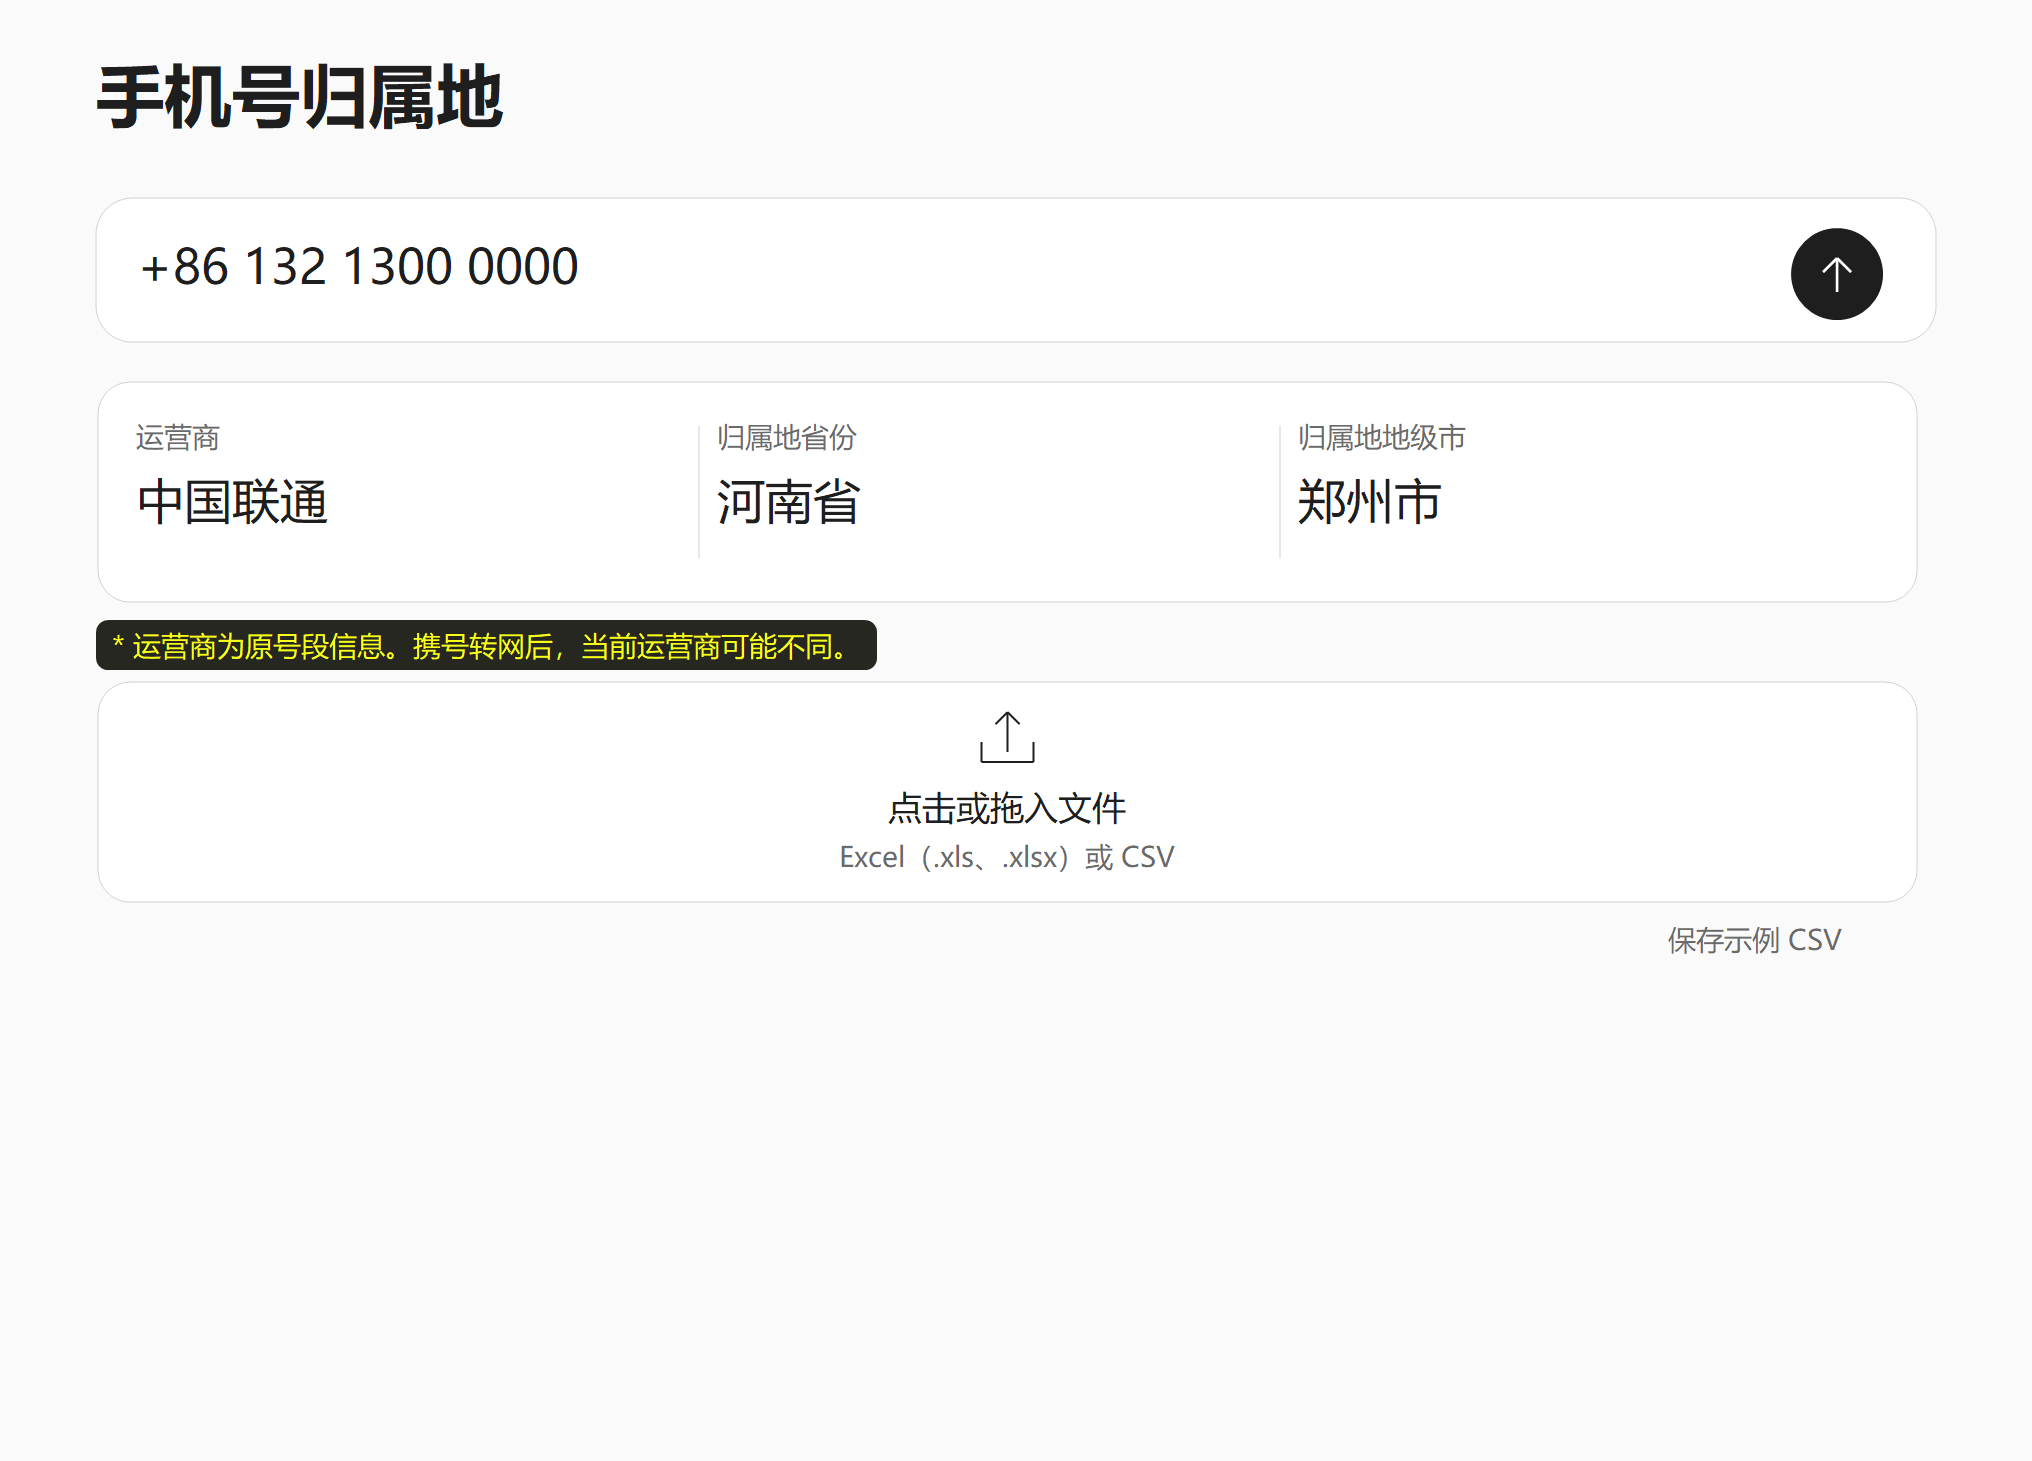
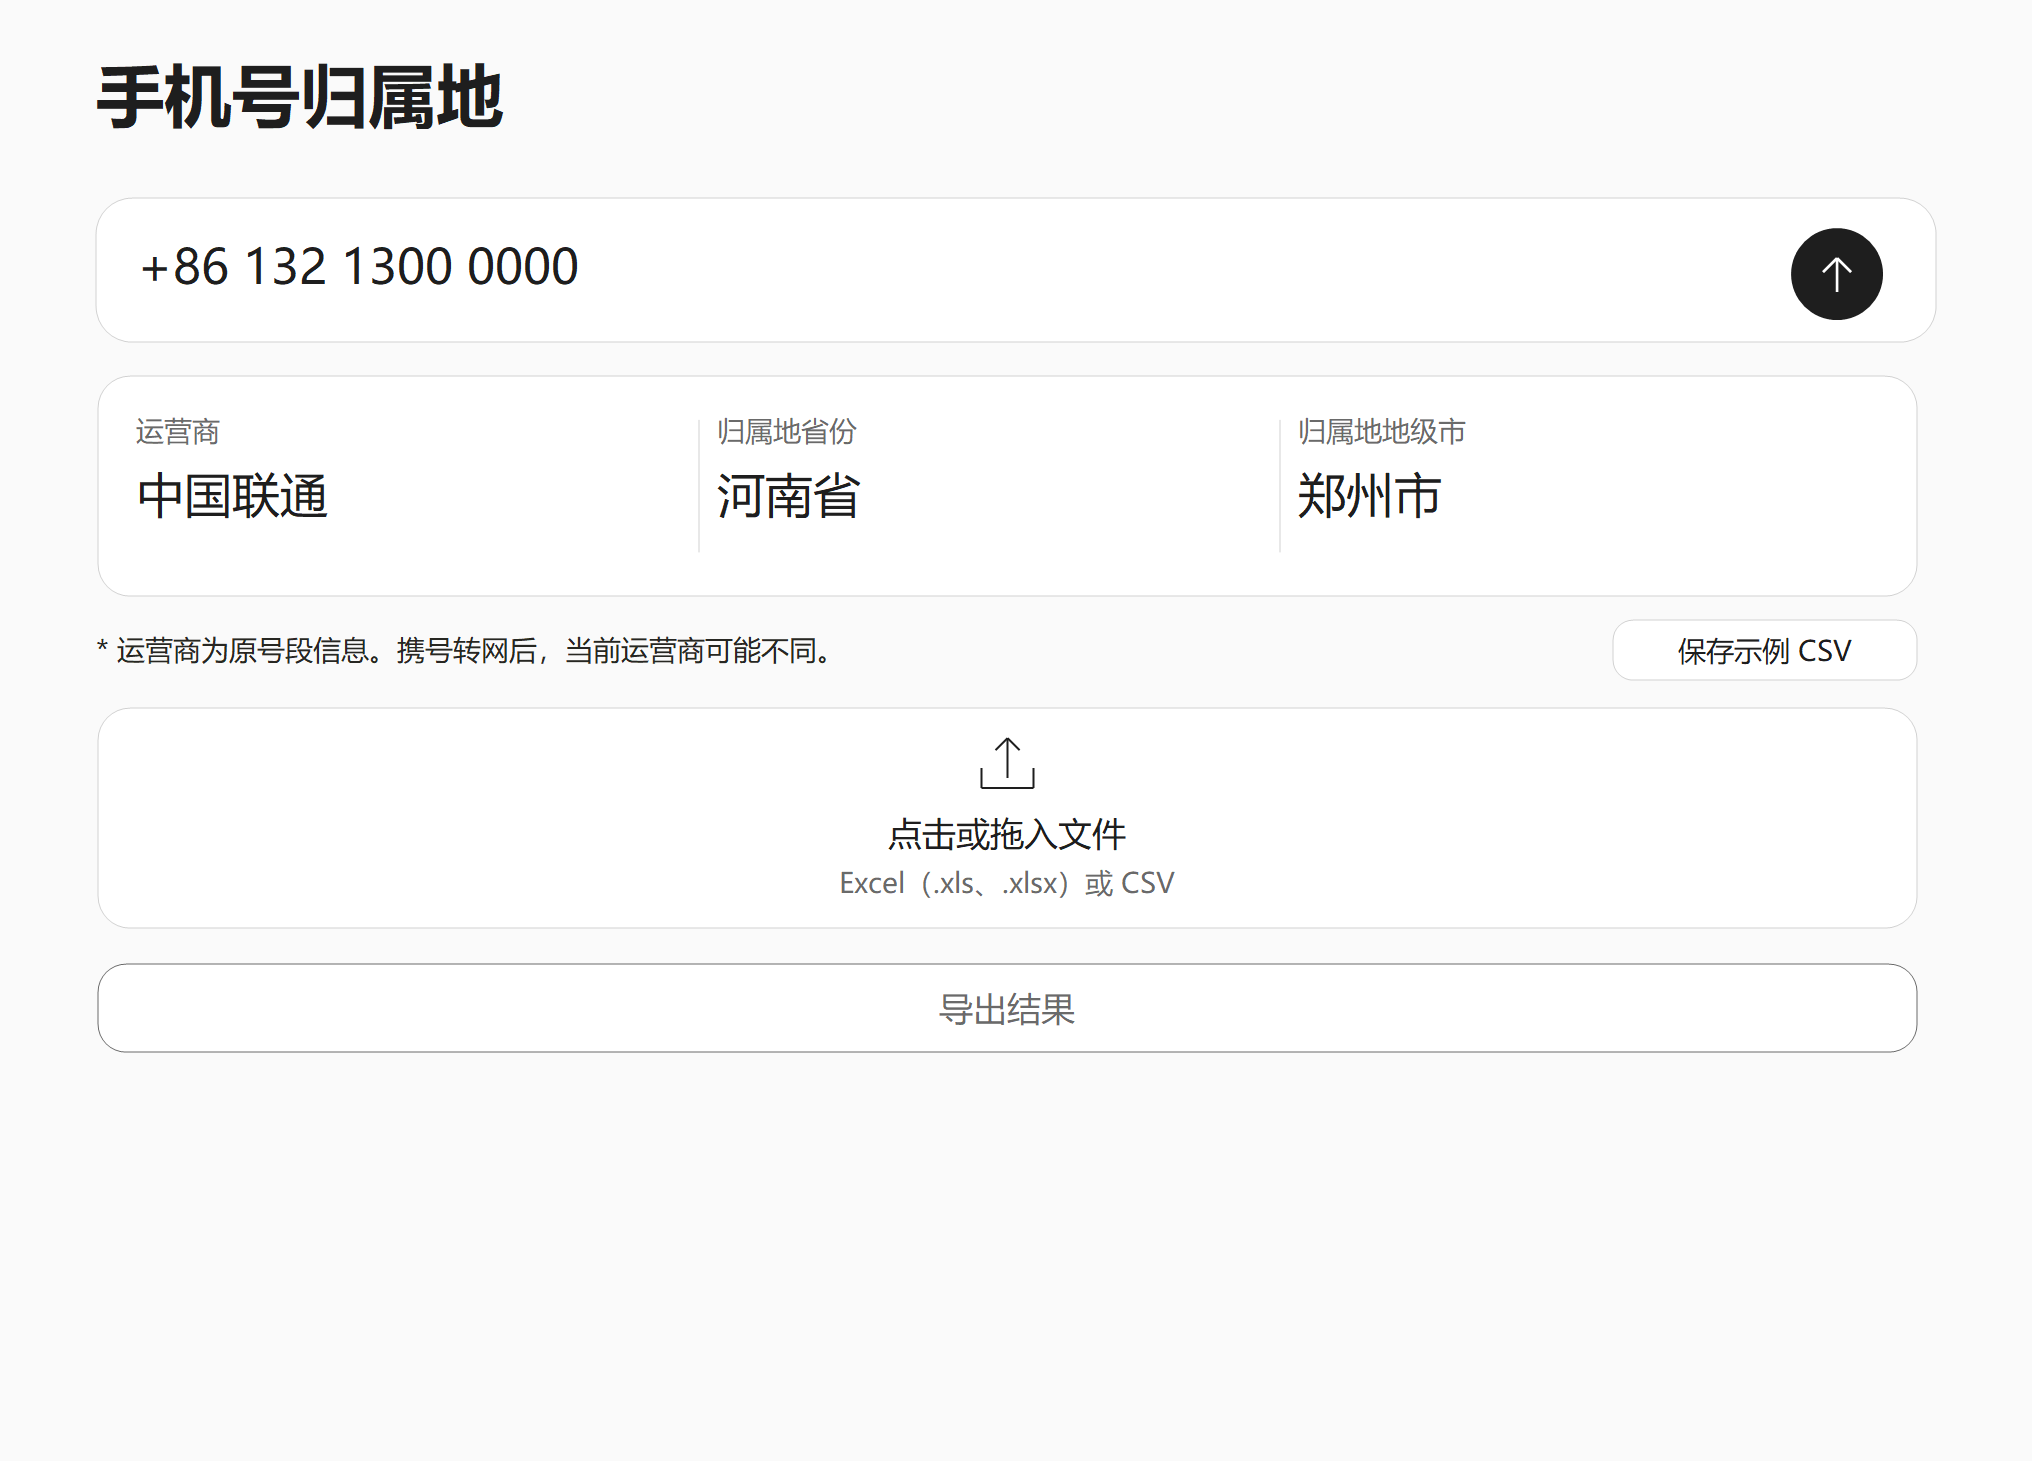
Refresh both guides and the Windows demo for the fixed export button

diff --git a/README.en.md b/README.en.md
@@ -36,11 +36,11 @@
 
 <h2 align="center">Look up an entire file</h2>
 
-<p align="center"><a href="https://github.com/TaylorChyi/PhoneRegion/releases/download/v1.3.0/example.csv"><strong>Download a sample CSV</strong></a>, or choose <strong>保存示例 CSV (Save sample CSV)</strong> in the app to get the same file offline.<br>It contains three number formats. For a single-number lookup, try <code>+86 132 1300 0000</code>.</p>
+<p align="center"><a href="https://github.com/TaylorChyi/PhoneRegion/releases/download/v1.3.1/example.csv"><strong>Download a sample CSV</strong></a>, or click <strong>保存示例 CSV (Save sample CSV)</strong> above the drop area to get the same file offline.<br>It contains three number formats. For a single-number lookup, try <code>+86 132 1300 0000</code>.</p>
 
 <p align="center">Click the <strong>点击或拖入文件 (Click or drop a file)</strong> box or drag one Excel (<code>.xls</code>, <code>.xlsx</code>) or CSV file onto it. Parsing and lookup start immediately.<br>Put the numbers in the first column and leave other columns as they are. Excel does not need to be installed.<br>The app reads column A of the first worksheet or the first CSV column. A common heading such as 手机号 (mobile number) is optional.</p>
 
-<p align="center">Several complete numbers separated by spaces in one cell produce separate result rows.<br>Once lookup finishes, the <strong>导出结果 (Export results)</strong> button appears below. Click it to choose a save location and Excel or CSV format.<br>If you cancel the save dialog, you can click Export results again. The original file stays intact. Valid numbers are normalised to 11 digits, with the original order and duplicates preserved.</p>
+<p align="center">Several complete numbers separated by spaces in one cell produce separate result rows.<br>The <strong>导出结果 (Export results)</strong> button stays below the drop area and becomes available when there are rows to export. Click it to choose a location and Excel or CSV format.<br>You can export again after saving or cancelling. The original file stays intact. Valid numbers are normalised to 11 digits, with the original order and duplicates preserved.</p>
 
 <table align="center">
   <thead><tr><th align="center">手机号<br><sub>Mobile number</sub></th><th align="center">运营商<br><sub>Carrier</sub></th><th align="center">归属地省份<br><sub>Province</sub></th><th align="center">归属地地级市<br><sub>Prefecture-level area</sub></th></tr></thead>
@@ -50,8 +50,6 @@
     <tr><td align="center">18901600000</td><td align="center">中国电信</td><td align="center">上海市</td><td align="center">上海市</td></tr>
   </tbody>
 </table>
-
-<p align="center">Exports contain only these four columns. The window reports how many inputs are invalid or have an unlisted prefix.</p>
 
 <h2 align="center">See it in action</h2>
 

diff --git a/README.md b/README.md
@@ -36,11 +36,11 @@
 
 <h2 align="center">整张表，也能一次查完</h2>
 
-<p align="center"><a href="https://github.com/TaylorChyi/PhoneRegion/releases/download/v1.3.0/example.csv"><strong>下载示例 CSV</strong></a>，或在应用里点击<strong>「保存示例 CSV」</strong>，离线获取同一份示例文件。<br>示例含三种号码格式，单号输入框可试 <code>+86 132 1300 0000</code>。</p>
+<p align="center"><a href="https://github.com/TaylorChyi/PhoneRegion/releases/download/v1.3.1/example.csv"><strong>下载示例 CSV</strong></a>，或点击拖入框上方的<strong>「保存示例 CSV」</strong>按钮，离线获取同一份示例文件。<br>示例含三种号码格式，单号输入框可试 <code>+86 132 1300 0000</code>。</p>
 
 <p align="center">在<strong>「点击或拖入文件」</strong>框中选择或拖入一个 Excel（<code>.xls</code>、<code>.xlsx</code>）或 CSV 文件，随后立即开始解析和查询。<br>号码放在首列即可，其他列无需整理，电脑也无需安装 Excel。<br>Excel 读取第一张工作表的 A 列，CSV 读取第一列。首行可以是「手机号」等常见表头。</p>
 
-<p align="center">同一格中用空格隔开的多个完整号码会逐个查询。<br>查询完成后，下方出现<strong>「导出结果」</strong>按钮。点击后选择保存位置和 Excel／CSV 格式，取消后也可再次导出。<br>有效号码统一为 11 位，原顺序和重复项保留。导入时不生成结果文件，原表不变。</p>
+<p align="center">同一格中用空格隔开的多个完整号码会逐个查询。<br>拖入框下方的<strong>「导出结果」</strong>按钮始终可见，有可导出的记录时亮起。点击后选择保存位置和 Excel／CSV 格式，取消或保存后都可以再次导出。<br>有效号码统一为 11 位，原顺序和重复项保留。导入时不生成结果文件，原表不变。</p>
 
 <table align="center">
   <thead><tr><th align="center">手机号</th><th align="center">运营商</th><th align="center">归属地省份</th><th align="center">归属地地级市</th></tr></thead>
@@ -50,8 +50,6 @@
     <tr><td align="center">18901600000</td><td align="center">中国电信</td><td align="center">上海市</td><td align="center">上海市</td></tr>
   </tbody>
 </table>
-
-<p align="center">导出文件只含上面四列。窗口会汇总格式错误和未收录号段的数量，方便回查。</p>
 
 <h2 align="center">看看实际操作</h2>
 
